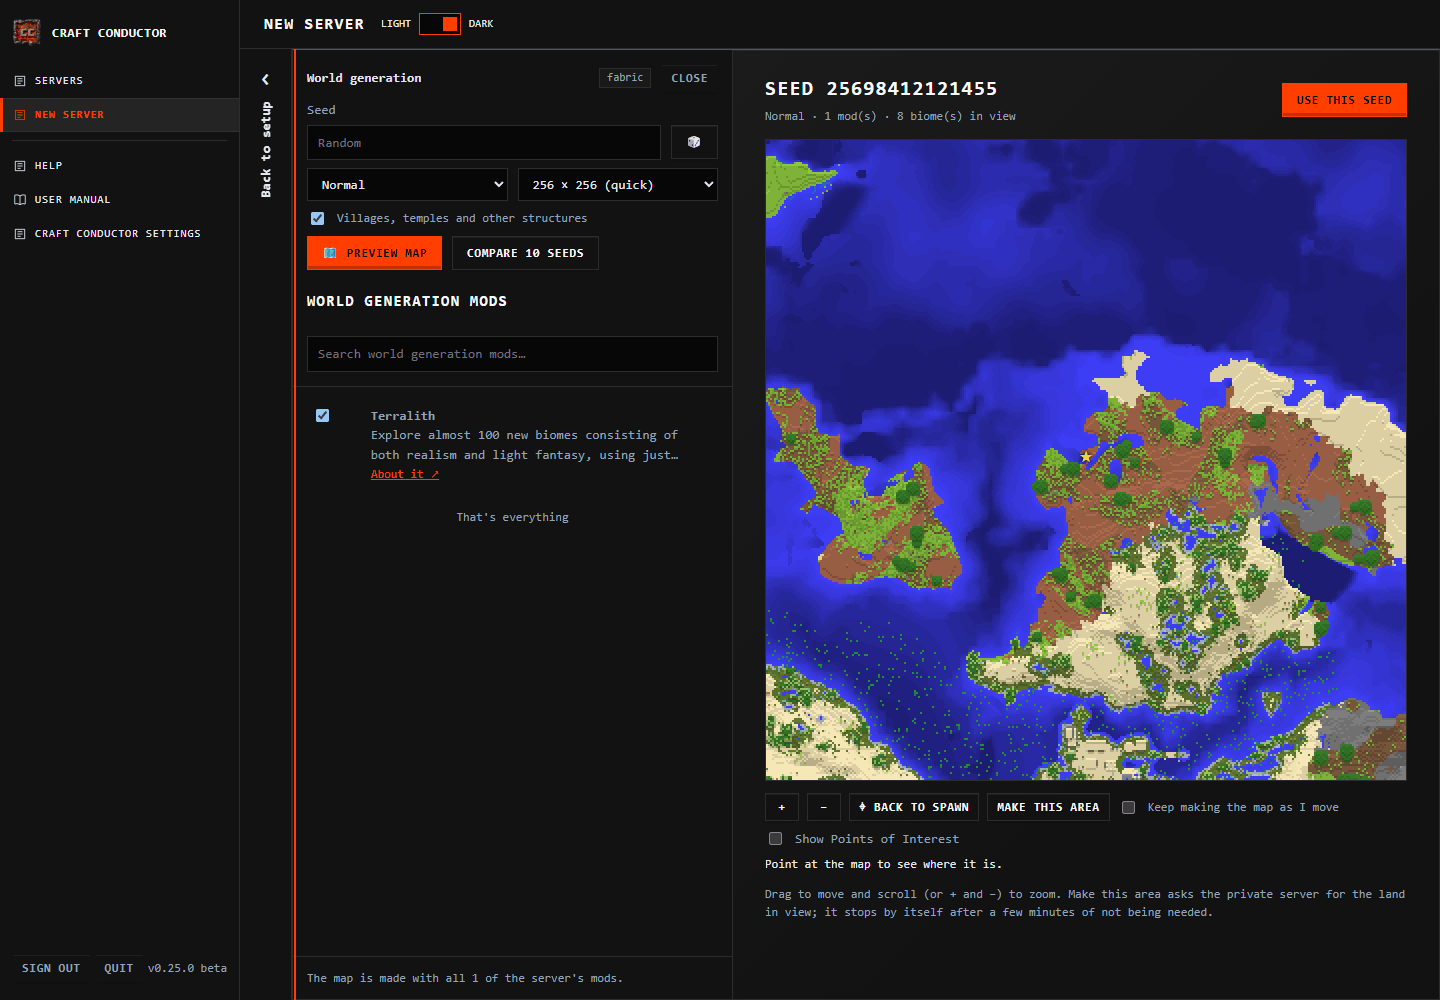
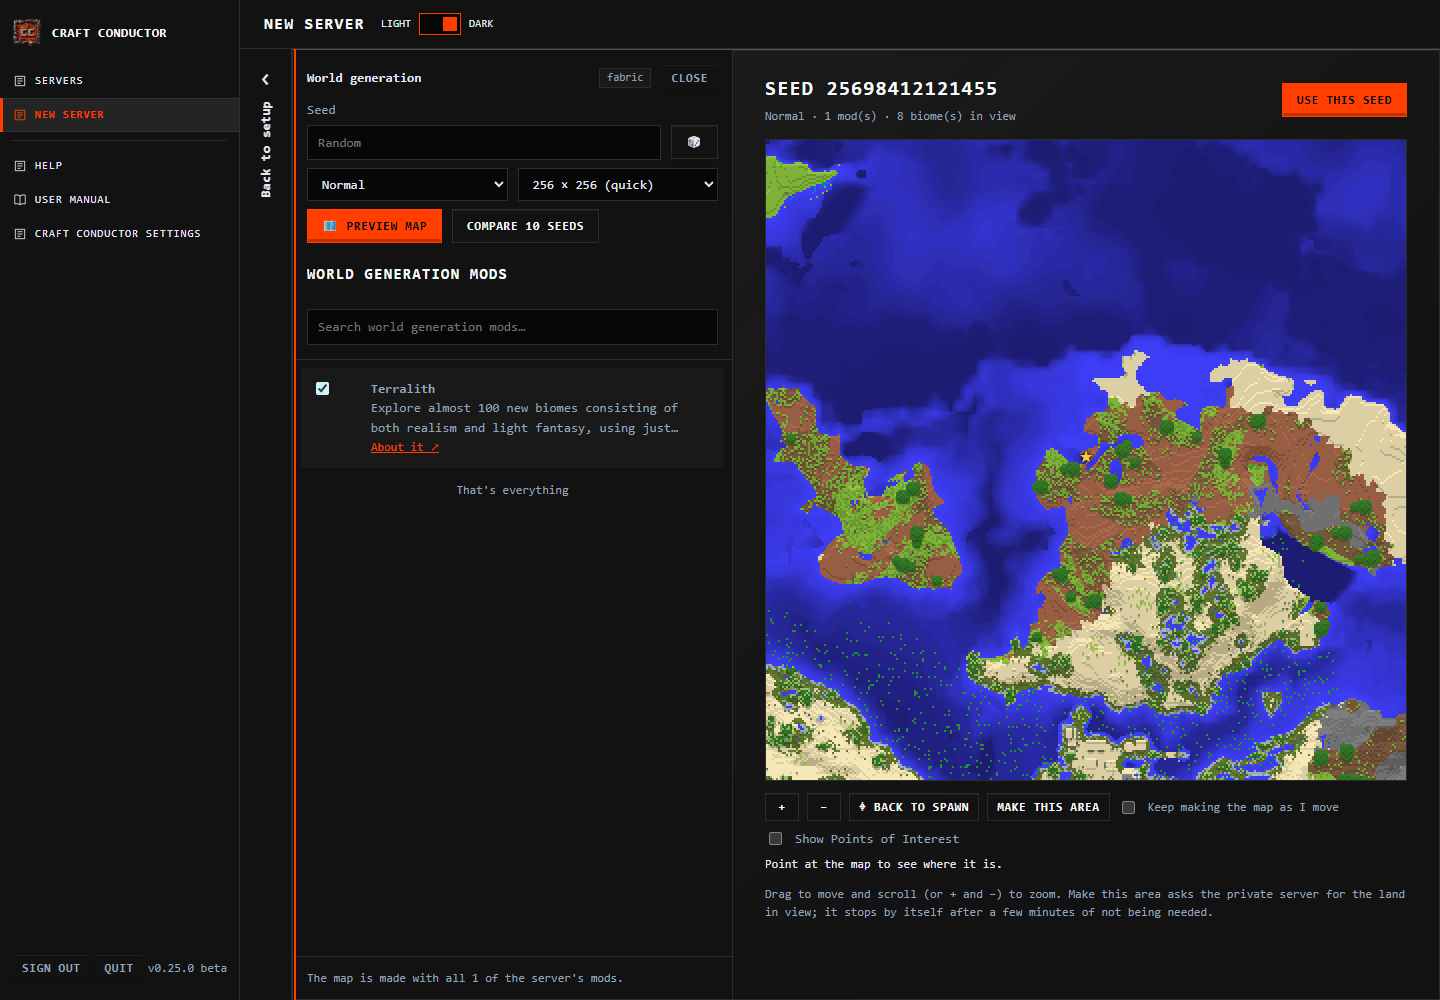
Map preview: no structures box in the panel; maps always made with structures
The World generation panel's "Villages, temples and other structures" box was easy to take for
"show them on the map". It's gone from the panel: maps and seed comparisons are always made with
structures (hidden until Show Points of Interest). The server's own setting stays on the World
card; the panel says when it's off (the map has them, the server's world won't), and Use this
seed no longer changes it.

Changed region(s): [[0.1875, 0.186, 0.4688, 0.527]]

diff --git a/src/craft_conductor/webui/app.js b/src/craft_conductor/webui/app.js
@@ -4040,8 +4040,11 @@ function worldPanel(host) {
   const type = h("select", { "aria-label": "World type", onchange: () => { P["level-type"] = type.value; host.changed(); } },
     WORLD_TYPES.map(([v, label]) => h("option", { value: v }, label)));
   type.value = P["level-type"] || "minecraft:normal";
-  const structures = h("input", { type: "checkbox", checked: P["generate-structures"] !== "false",
-    onchange: () => { P["generate-structures"] = String(structures.checked); host.changed(); } });
+  // Maps are always made with villages, temples and other structures (hidden unless Show Points of
+  // Interest is ticked); whether the server's world has them stays on the World card, said here
+  // only when it won't.
+  const noStructures = P["generate-structures"] === "false" ? h("p", { class: "muted small" },
+    "The map is made with villages, temples and other structures; this server's world won't have them (World → Villages, temples and other structures).") : null;
   const size = h("select", { "aria-label": "Map size" }, MAP_SIZES.map(([v, label]) => h("option", { value: String(v) }, label)));
   size.value = String(st.previewSize || 128);
   size.addEventListener("change", () => { st.previewSize = Number(size.value); });
@@ -4143,7 +4146,6 @@ function worldPanel(host) {
         h("div", { class: "muted small" }, `${t(typeName)} · ${m.mods.length ? `${m.mods.length} mod(s)` : "no mods"} · ${biomes} biome(s) in view`)),
         same ? h("span", { class: "tag" }, "✓ The server's seed") : h("button", { type: "button", class: "btn primary", onclick: () => {
           seed.value = P["level-seed"] = m.seed; type.value = P["level-type"] = m.level_type;
-          P["generate-structures"] = String(m.structures); structures.checked = m.structures;
           host.changed(); toast(`The server will use seed ${m.seed}`); showMap(m);
         } }, "Use this seed")),
       frame, poi.controls, readout,
@@ -4213,7 +4215,7 @@ function worldPanel(host) {
     const mins = Math.max(5, Math.round(each * 10 / 60));
     if (!(await ask(`Make maps of 10 random seeds? It takes about ${mins} minutes (each map is a fresh world), and the computer works hard the whole time: the fans may spin up and games may run slower. You can keep setting up the server meanwhile.`,
       { id: "seed-gallery", ok: "Make 10 maps" }))) return;
-    const body = { loader: st.loader, minecraft: st.minecraft, level_type: type.value, structures: structures.checked,
+    const body = { loader: st.loader, minecraft: st.minecraft, level_type: type.value, structures: true,
       radius: Number(size.value), mods: [...st.mods].filter(([, m]) => m.explicit).map(([k]) => k), channels: earlyChannels(), count: 10 };
     const r = await act(() => api("/api/hub/preview/gallery", { method: "POST", body }), null);
     if (!r) return;
@@ -4253,7 +4255,7 @@ function worldPanel(host) {
     poll = setInterval(tick, 1000);
   };
   async function start() {
-    const body = { loader: st.loader, minecraft: st.minecraft, seed: seed.value.trim(), level_type: type.value, structures: structures.checked,
+    const body = { loader: st.loader, minecraft: st.minecraft, seed: seed.value.trim(), level_type: type.value, structures: true,
       radius: Number(size.value), mods: [...st.mods].filter(([, m]) => m.explicit).map(([k]) => k), channels: earlyChannels() };
     const r = await act(() => api("/api/hub/preview", { method: "POST", body }), null);
     if (!r) return;
@@ -4271,7 +4273,7 @@ function worldPanel(host) {
           h("button", { class: "btn ghost small", onclick: () => host.close() }, "Close")),
         h("label", {}, "Seed", h("div", { class: "row" }, seed, dice)),
         h("div", { class: "row" }, type, size),
-        h("label", { class: "row small" }, structures, h("span", {}, "Villages, temples and other structures")),
+        noStructures,
         h("div", { class: "row" }, go, compare),
         h("h3", { class: "mt-s" }, plugins ? "World generation plugins" : "World generation mods"),
         moddable ? q : null),

diff --git a/src/craft_conductor/webui/manual.md b/src/craft_conductor/webui/manual.md
@@ -104,13 +104,14 @@ The version and server type you pick are what the server is made on. Your mods n
 - A release mod may need a library that only publishes beta or alpha builds. Craft Conductor names those required libraries and asks before allowing early builds for that mod and its dependencies. Declining leaves the incompatibility visible; it does not silently omit the required library.
 - Type a **seed** (or press 🎲 for a random one), pick the world type and a map size, and press **Preview map**. Craft Conductor makes the world in a private server on this computer (nobody can join it), with all the mods you've picked, the mods they need, and the Chunky mod to generate the area (the line under the list counts them, and the progress names them), then draws it from above: north is up, one pixel is one block, and ★ is the spawn point. Point at the map to see the coordinates and the biome there.
 - **A clean map first:** the map shows the land and the spawn point, nothing else, so it doesn't give away what players would otherwise find by exploring.
+- Maps are always made with villages, temples and other structures, so the land looks as Minecraft makes it; they stay hidden unless you show them (below). Whether the server's own world has them is **Villages, temples and other structures** on the **World** card. When that's off, the panel says so: the map still has them, the server's world won't.
 - **Show Points of Interest** (under the map, off to begin with) marks villages, pillager outposts, temples, woodland mansions, ocean monuments, igloos, witch huts, shipwrecks, ruined portals, ancient cities, trail ruins, trial chambers and the like with a symbol (point at one for its name and coordinates), including a world-generation mod's own structures. The **Points of interest** list under it counts them and gives each one's coordinates; on the map you can move around, pick one to go there. Mineshafts and buried treasure (underground, and everywhere) aren't shown; strongholds are.
   - The first time for a world (a seed and world type), it warns that points of interest reveal what's normally undiscovered: in competitive speedrunning without a set seed that's an unfair advantage, and some Minecraft purists consider it a "soft cheat". **Keep Hidden** (the default) leaves the map clean; **Show Points of Interest** shows them, and you aren't asked again for that world until the page is reloaded. Every other seed starts hidden.
   - Unticking it removes the symbols at once. The world isn't made again either way: the land and the map stay as they are.
   - If they can't be loaded, the map still works, and a short note under it offers **Try again**.
 - **Move around the map:** drag it to move, and scroll (or press **+** and **−**) to zoom, from 4 pixels a block out to 32 blocks a pixel. **⌖ Back to spawn** brings you back. Where the land hasn't been made yet the map is checkered; press **Make this area** and the private server makes the land in view (it asks first when that takes more than a minute), or tick **Keep making the map as I move** and it makes the land as you go. This choice is remembered on this browser when you leave the preview or reopen the page. The private server stays on while you explore, and stops by itself after five minutes of not being needed.
 - It takes a minute or two the first time (Minecraft and the mods are downloaded) and less for the next seeds with the same mods. Bigger maps and heavy mods take longer; **Stop** cancels it. You can close the panel and carry on: the map is there when you come back.
-- **Earlier maps** keeps the seeds you've looked at; **Use this seed** makes one the server's seed.
+- **Earlier maps** keeps the seeds you've looked at; **Use this seed** makes one the server's seed (and world type), leaving the World card's other settings as they are.
 - **Compare 10 seeds** makes maps of 10 random seeds one after another, with the same mods, so you can pick the one you like (lots of ocean, a big mountain range, a biome you're after). It asks first: it takes a while (each map is a new world) and the computer works hard meanwhile. The maps appear side by side as they're made; press one to look closer and **Use this seed**. **Stop comparing** keeps the maps made so far, and **← Back to the seeds compared** returns to them.
 - Maps need Minecraft 1.18 or newer, and aren't available for modpacks or imported worlds. Vanilla servers are previewed with Fabric, which makes exactly the same worlds.
 - If a map can't be made, it says why (when the private server crashed, which mod it blames). Its server's log is kept as `last-failed.log` in the `previews` folder of Craft Conductor's own folder (`.craft-conductor`) until Craft Conductor restarts.

diff --git a/CHANGELOG.md b/CHANGELOG.md
@@ -12,6 +12,7 @@ its fix will say which version it's in.
 
 **Changed**
 - **The map preview starts clean** (New server → World generation & map preview): it shows the land and the spawn point, and no longer marks villages, temples and other structures by itself. Tick **Show Points of Interest** under the map to see them. The first time for a seed it warns that this gives away what players would normally have to discover (an unfair advantage in competitive speedrunning without a set seed, and a "soft cheat" to some Minecraft purists); **Keep Hidden** is the default. Unticking hides them at once, and if they can't be loaded the map still works, with **Try again**.
+- The map preview panel no longer has its own **Villages, temples and other structures** box, which was easy to mistake for showing them on the map. Maps are always made with them (hidden until **Show Points of Interest**); whether the server's world has them stays on the **World** card, and the panel says when it won't. **Use this seed** no longer changes that setting.
 - The world-generation mods next to the map preview, and the mods in a new single-player game, keep coming as you scroll down, as in the mod browser (they stopped after the first 20).
 - Creating a server that needs mods downloaded by hand no longer fails with "these mods must be downloaded by hand first". Setup waits, opens the panel, and carries on by itself once the files are in (**Stop setting up** stops it).
 - The Updates page's **Manual downloads needed** card opens the same panel instead of an **Upload** button for each file.
